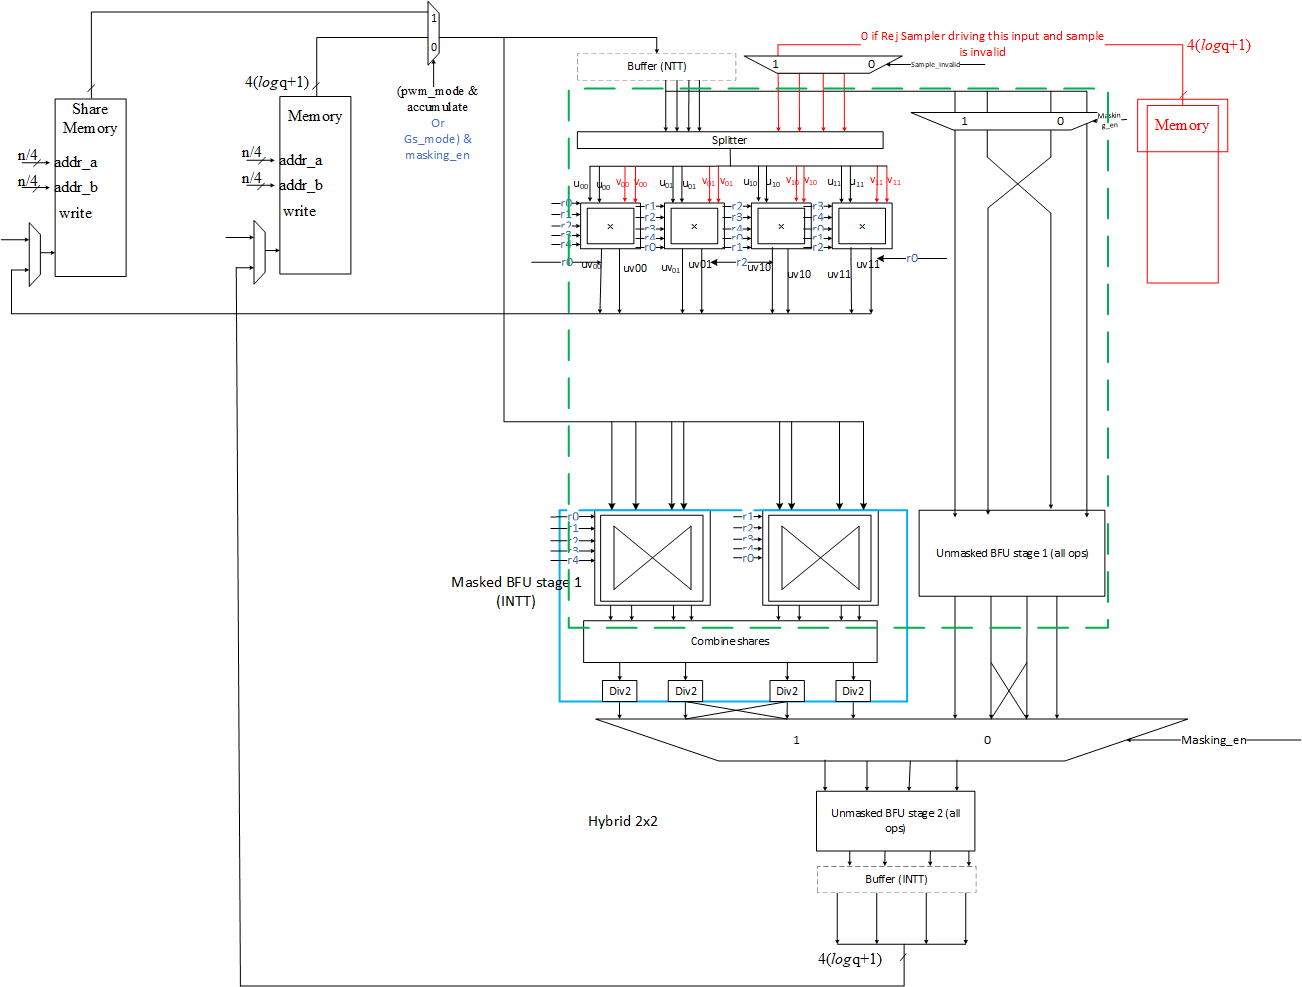
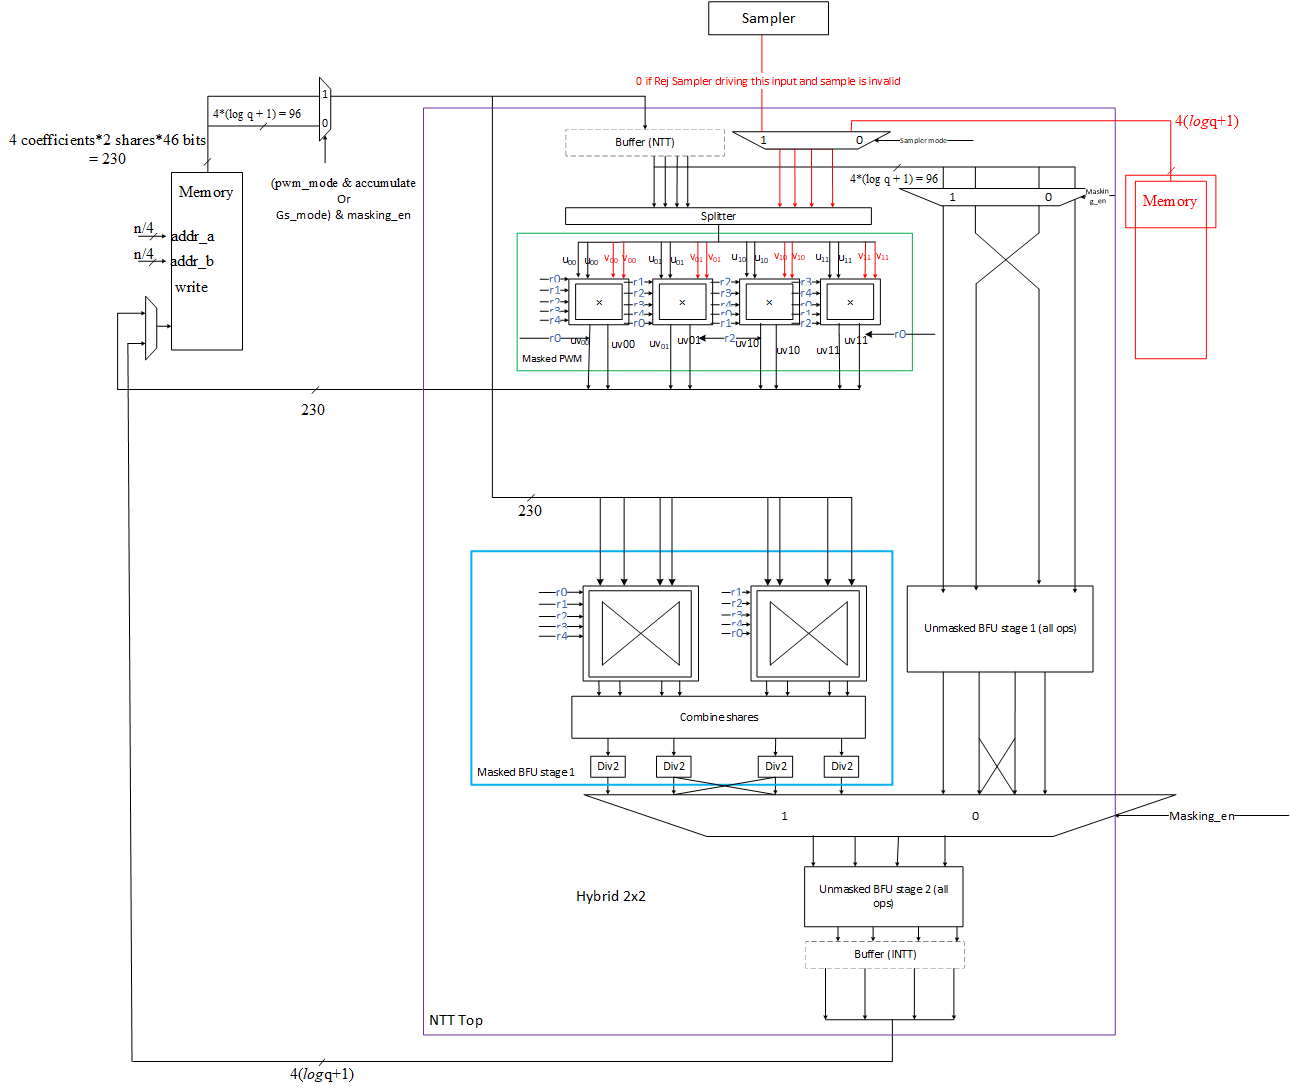
Update memory table and image

diff --git a/docs/AdamsBridgeHardwareSpecification.md b/docs/AdamsBridgeHardwareSpecification.md
@@ -398,7 +398,8 @@ The following table shows the required memory instances for ML-DSA-87:
 | mldsa_top.mldsa_ram_inst0_bank1              | 832   | 96         |              |
 | mldsa_top.mldsa_ram_inst1                    | 576   | 96         |              |
 | mldsa_top.mldsa_ram_inst2                    | 1408  | 96         |              |
-| mldsa_top.mldsa_ram_inst3                    | 128   | 96         |              |
+| mldsa_top.mldsa_ram_inst3                    | 64    | 230        |              |
+| mldsa_top.mldsa_ram_inst4                    | 64    | 96         |              |
 | mldsa_top.mldsa_ctrl_inst.mldsa_sig_z_ram    | 224   | 160        | 8            |
 | mldsa_top.mldsa_ctrl_inst.mldsa_pubkey_ram   | 64    | 320        | 8            |
 
